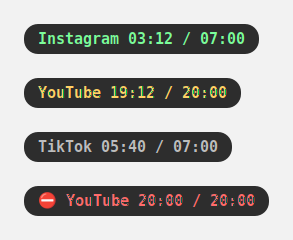
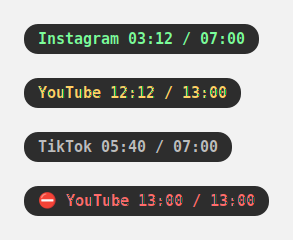
YouTube passa a 13 min de sessão e 22 min de descanso

diff --git a/tests/test_engine.py b/tests/test_engine.py
@@ -25,7 +25,7 @@ def run(sites, rules, start, seconds, focused, human=True):
 
 class DefaultRulesTest(unittest.TestCase):
     def test_default_rules(self):
-        want = {"youtube.com": (20, 240), "instagram.com": (7, 15), "tiktok.com": (7, 15), "pinterest.com": (7, 15)}
+        want = {"youtube.com": (13, 22), "instagram.com": (7, 15), "tiktok.com": (7, 15), "pinterest.com": (7, 15)}
         self.assertEqual({k: (r["session_minutes"], r["rest_minutes"]) for k, r in RULES.items()}, want)
         self.assertEqual(set(RULES["youtube.com"]["domains"]), {"youtube.com", "youtu.be", "m.youtube.com"})
         self.assertEqual(set(RULES["pinterest.com"]["domains"]), {"pinterest.com", "br.pinterest.com", "pin.it"})
@@ -116,26 +116,101 @@ class CountTest(unittest.TestCase):
         self.assertEqual(sites["youtube.com"]["used"], 10)
         self.assertEqual(sites["instagram.com"]["used"], 0)
 
-    def test_youtube_20_min_then_exactly_4_hours(self):
+    def test_instagram_tiktok_pinterest_titles(self):
+        cases = {
+            "Instagram - Google Chrome": "instagram.com",
+            "(2) Instagram — Mozilla Firefox": "instagram.com",
+            "Login • Instagram - Google Chrome": "instagram.com",
+            "Fulano (@fulano) • Instagram photos and videos - Google Chrome": "instagram.com",
+            "Fulano (@fulano) • Fotos e vídeos do Instagram - Google Chrome": "instagram.com",
+            'Fulano on Instagram: "praia" - Google Chrome': "instagram.com",
+            "TikTok - Make Your Day - Google Chrome": "tiktok.com",
+            "#receitas | TikTok - Google Chrome": "tiktok.com",
+            "Pinterest - Google Chrome": "pinterest.com",
+            "Pin em Cozinha | Pinterest — Mozilla Firefox": "pinterest.com",
+        }
+        for t, want in cases.items():
+            self.assertEqual(self.site(t), want, t)
+
+    def test_name_in_the_middle_of_another_title_does_not_count(self):
+        for t in ("luiz-nast/maverick: Instagram e Pinterest - GitHub - Google Chrome",
+                  "instagram - Pesquisa Google - Google Chrome", "tiktok - Google Search — Mozilla Firefox",
+                  "Blog X - Dicas de Instagram - Google Chrome", "Como sair do YouTube | Blog - Google Chrome",
+                  "Nova guia - Google Chrome", "Mozilla Firefox", ""):
+            self.assertIsNone(self.site(t), t)
+
+    def test_domains_and_subdomains(self):
+        """O navegador mostra a URL como título enquanto a aba carrega."""
+        cases = {"m.youtube.com/watch?v=abc": "youtube.com", "youtu.be/abc": "youtube.com",
+                 "https://www.youtube.com/shorts/x": "youtube.com", "music.youtube.com": "youtube.com",
+                 "www.instagram.com/p/xyz/": "instagram.com", "br.pinterest.com/pin/1/": "pinterest.com",
+                 "pin.it/abc": "pinterest.com", "www.tiktok.com/@fulano": "tiktok.com",
+                 "notyoutube.com/watch": None, "youtube.com.evil.net/x": None, "github.com/youtube": None}
+        for t, want in cases.items():
+            self.assertEqual(self.site(f"{t} - Google Chrome"), want, t)
+        for host, want in (("m.youtube.com", "youtube.com"), ("youtu.be", "youtube.com"), ("br.pinterest.com", "pinterest.com"),
+                           ("www.instagram.com", "instagram.com"), ("example.com", None)):
+            self.assertEqual(engine.site_for_host(host, RULES), want, host)
+
+    def test_same_result_in_chrome_and_firefox(self):
+        for tab in ("Vídeo - YouTube", "Instagram", "#fyp | TikTok", "Pin em Cozinha | Pinterest", "Notícias - G1"):
+            chrome = engine.site_for_window("google-chrome", f"{tab} - Google Chrome", RULES)
+            firefox = engine.site_for_window("firefox_firefox", f"{tab} — Mozilla Firefox", RULES)
+            self.assertEqual(chrome, firefox, tab)
+
+    def test_private_and_incognito_windows(self):
+        for t in ("Vídeo - YouTube — Navegação privativa do Mozilla Firefox", "Vídeo - YouTube — Mozilla Firefox Private Browsing",
+                  "Vídeo - YouTube — Mozilla Firefox — navegação privativa", "Stories • Instagram — Mozilla Firefox — navegação privativa",
+                  "Vídeo - YouTube - Google Chrome (Anônima)", "Review of Google Chrome - YouTube - Google Chrome",
+                  "Vídeo - YouTube - Reprodução de áudio - Google Chrome"):
+            self.assertIn(self.site(t, "firefox"), ("youtube.com", "instagram.com"), t)
+
+    def test_other_browsers_and_chrome_profile_suffix(self):
+        self.assertEqual(self.site("Vídeo - YouTube - Chromium", "chromium"), "youtube.com")
+        self.assertEqual(self.site("Vídeo - YouTube - Google Chrome - Trabalho"), "youtube.com")
+        self.assertEqual(self.site("Instagram - Brave", "brave-browser"), "instagram.com")
+        self.assertEqual(self.site("Pinterest - Microsoft Edge", "microsoft-edge"), "pinterest.com")
+        self.assertEqual(self.site("Google Chrome tips - YouTube - Google Chrome"), "youtube.com")
+
+    def test_only_browsers(self):
+        self.assertIsNone(engine.site_for_window("org.gnome.TextEditor", "YouTube", RULES))
+        self.assertIsNone(engine.site_for_window("Claude", "Vídeo - YouTube", RULES))
+        self.assertEqual(engine.site_for_window("crx_agimnkijcaahngcdmfeangaknmldooml", "YouTube", RULES), "youtube.com")
+        self.assertEqual(engine.site_for_window("", "Vídeo - YouTube - Google Chrome", RULES), "youtube.com")
+        self.assertTrue(engine.is_browser("Brave-browser", "x"))
+        self.assertFalse(engine.is_browser("ledger-live", "Ledger"))
+        self.assertFalse(engine.is_browser("zenity", "YouTube"))
+
+
+class CountTest(unittest.TestCase):
+    def test_counts_only_focused_listed_site_and_human(self):
         sites, t0 = {}, at("2026-11-21 10:00:00")
-        last = run(sites, RULES, t0, 20 * MIN, "youtube.com")
+        run(sites, RULES, t0, 10, "youtube.com")
+        run(sites, RULES, t0 + 10, 10, None)  # outro app em foco
+        run(sites, RULES, t0 + 20, 10, "youtube.com", human=False)  # agente sozinho
+        self.assertEqual(sites["youtube.com"]["used"], 10)
+        self.assertEqual(sites["instagram.com"]["used"], 0)
+
+    def test_youtube_13_min_then_exactly_22_min(self):
+        sites, t0 = {}, at("2026-11-21 10:00:00")
+        last = run(sites, RULES, t0, 13 * MIN, "youtube.com")
         st = engine.status(RULES, sites, "youtube.com", last)
         self.assertTrue(st.resting)
-        self.assertEqual(st.rest_until, last + 4 * HOUR)
-        self.assertEqual(engine.status(RULES, sites, "youtube.com", last - 1 + 0.0).used, 20 * MIN)
+        self.assertEqual(st.rest_until, last + 22 * MIN)
+        self.assertEqual(engine.status(RULES, sites, "youtube.com", last - 1 + 0.0).used, 13 * MIN)
         # no descanso nada conta, mesmo com o site em foco e você olhando
-        engine.tick(sites, RULES, last + 4 * HOUR - 1, "youtube.com", True)
-        self.assertTrue(engine.status(RULES, sites, "youtube.com", last + 4 * HOUR - 1).resting)
-        self.assertEqual(sites["youtube.com"]["used"], 20 * MIN)
-        # libera exatamente 4 h depois, com sessão nova
-        engine.tick(sites, RULES, last + 4 * HOUR, None, False)
-        st = engine.status(RULES, sites, "youtube.com", last + 4 * HOUR)
+        engine.tick(sites, RULES, last + 22 * MIN - 1, "youtube.com", True)
+        self.assertTrue(engine.status(RULES, sites, "youtube.com", last + 22 * MIN - 1).resting)
+        self.assertEqual(sites["youtube.com"]["used"], 13 * MIN)
+        # libera exatamente 22 min depois, com sessão nova
+        engine.tick(sites, RULES, last + 22 * MIN, None, False)
+        st = engine.status(RULES, sites, "youtube.com", last + 22 * MIN)
         self.assertFalse(st.resting)
         self.assertEqual(st.used, 0)
 
     def test_one_second_before_the_limit_is_still_active(self):
         sites, t0 = {}, at("2026-11-21 10:00:00")
-        last = run(sites, RULES, t0, 20 * MIN - 1, "youtube.com")
+        last = run(sites, RULES, t0, 13 * MIN - 1, "youtube.com")
         st = engine.status(RULES, sites, "youtube.com", last)
         self.assertFalse(st.resting)
         self.assertEqual(st.left, 1)
@@ -182,7 +257,7 @@ class RuleChangeTest(unittest.TestCase):
         self.assertEqual(engine.pending(cfg, "2026-11-21"), {"youtube.com": "alterada"})
         before = engine.rules_today(cfg, engine.day_of(at("2026-11-21 23:59:59")))
         after = engine.rules_today(cfg, engine.day_of(at("2026-11-22 00:00:00")))
-        self.assertEqual(before["youtube.com"]["session_minutes"], 20)
+        self.assertEqual(before["youtube.com"]["session_minutes"], 13)
         self.assertEqual(after["youtube.com"]["session_minutes"], 60)
         self.assertEqual(engine.pending(cfg, "2026-11-22"), {})
 
@@ -234,7 +309,7 @@ class RuleChangeTest(unittest.TestCase):
         wanted = engine.rules_wanted(cfg)
         wanted["youtube.com"] = {**wanted["youtube.com"], "session_minutes": 90}
         cfg = engine.change_rules(cfg, wanted, "2026-11-21")
-        wanted["youtube.com"] = {**wanted["youtube.com"], "session_minutes": 20}
+        wanted["youtube.com"] = {**wanted["youtube.com"], "session_minutes": 13}
         cfg = engine.change_rules(cfg, wanted, "2026-11-21")
         self.assertIsNone(cfg["next"])
 
@@ -261,7 +336,7 @@ class RuleChangeTest(unittest.TestCase):
         cfg = engine.change_rules(cfg, wanted, "2026-11-21")
         midnight = at("2026-11-22 00:00:00")
         engine.tick(sites, engine.rules_today(cfg, engine.day_of(midnight)), midnight, None, False)
-        self.assertEqual(sites["youtube.com"]["rest_until"], midnight + 4 * HOUR)
+        self.assertEqual(sites["youtube.com"]["rest_until"], midnight + 22 * MIN)
 
     def test_removed_site_keeps_its_rest_if_it_comes_back(self):
         sites, t0 = {}, at("2026-11-21 23:50:00")

diff --git a/tests/gui_check.py b/tests/gui_check.py
@@ -56,11 +56,11 @@ class App(gui.App):
         today = engine.day_of(time.time())
         check(list(win.rows) == ["youtube.com", "instagram.com", "tiktok.com", "pinterest.com"], "quatro sites padrão")
         yt, ig = win.rows["youtube.com"], win.rows["instagram.com"]
-        check(yt.time.get_text() == "12:14 / 20:00", f"YouTube usado/sessão ({yt.time.get_text()})")
-        check(yt.get_subtitle() == "Ativo, restam 07:46", f"YouTube ativo ({yt.get_subtitle()})")
+        check(yt.time.get_text() == "12:14 / 13:00", f"YouTube usado/sessão ({yt.time.get_text()})")
+        check(yt.get_subtitle() == "Ativo, restam 00:46", f"YouTube ativo ({yt.get_subtitle()})")
         check(ig.get_subtitle().startswith("Descanso até"), f"Instagram em descanso ({ig.get_subtitle()})")
         check(ig.time.get_text().startswith("libera em 10:"), f"Instagram tempo restante ({ig.time.get_text()})")
-        check(win.pill.get_text() == "YouTube 12:14 / 20:00", "pílula com o site em foco")
+        check(win.pill.get_text() == "YouTube 12:14 / 13:00", "pílula com o site em foco")
         check(win.pill.has_css_class("pill") and win.pill.has_css_class("idle"), "pílula cinza com ninguém mexendo")
         check(win.camera.get_text() == "ninguém mexendo", "presença discreta: ninguém mexendo")
         check(not win.banner_focus.get_revealed(), "sem aviso de extensão (Maverick respondeu)")
@@ -73,10 +73,10 @@ class App(gui.App):
             pump(0.3)
         pump(1.2)
         cfg = store.load_config()
-        check(engine.rules_wanted(cfg)["youtube.com"]["session_minutes"] == 25,
-              f"5 cliques no + gravam 25 ({engine.rules_wanted(cfg)['youtube.com']['session_minutes']})")
+        check(engine.rules_wanted(cfg)["youtube.com"]["session_minutes"] == 18,
+              f"5 cliques no + gravam 18 ({engine.rules_wanted(cfg)['youtube.com']['session_minutes']})")
         # dois sites editados em seguida: os dois ficam
-        win.edit("youtube.com", 30, 240)
+        win.edit("youtube.com", 30, 22)
         win.edit("instagram.com", 7, 30)
         pump(1.2)
         wanted = engine.rules_wanted(store.load_config())
@@ -94,7 +94,7 @@ class App(gui.App):
         yt.session.set_value(45)
         pump(1.2)
         cfg = store.load_config()
-        check(engine.rules_today(cfg, today)["youtube.com"]["session_minutes"] == 20, "hoje continua 20 min")
+        check(engine.rules_today(cfg, today)["youtube.com"]["session_minutes"] == 13, "hoje continua 13 min")
         check(engine.rules_today(cfg, engine.next_day(today))["youtube.com"]["session_minutes"] == 45, "amanhã 45 min")
         pump(1.2)
         check(win.banner_pending.get_revealed(), "aviso: vale a partir de amanhã")

diff --git a/tools/prints.py b/tools/prints.py
@@ -84,8 +84,8 @@ def overlay() -> None:
 
     ov._css()
     OUT.mkdir(parents=True, exist_ok=True)
-    states = [("Instagram 03:12 / 07:00", "playing"), ("YouTube 19:12 / 20:00", "warning"),
-              ("TikTok 05:40 / 07:00", "idle"), ("⛔ YouTube 20:00 / 20:00", "blocked")]
+    states = [("Instagram 03:12 / 07:00", "playing"), ("YouTube 12:12 / 13:00", "warning"),
+              ("TikTok 05:40 / 07:00", "idle"), ("⛔ YouTube 13:00 / 13:00", "blocked")]
     # Pílula do Challenger nos quatro estados, empilhadas.
     pills = [snap(ov.pill_label(t, s)) for t, s in states]
     save_column(pills, OUT / "pilula-estados.png", GdkPixbuf, bg=0xF2F2F2FF)
@@ -120,7 +120,7 @@ def overlay() -> None:
     content.update("Instagram em descanso", "10:12", "Libera às 21:47.", "⛔ Instagram 07:00 / 07:00")
     snap(content, 1366, 768, "cover").savev(str(OUT / "overlay-descanso.png"), "png", [], [])
     content = ov.CoverContent()
-    content.update("YouTube em descanso", "3:59:12", "Libera às 01:41.", "⛔ YouTube 20:00 / 20:00")
+    content.update("YouTube em descanso", "21:12", "Libera às 01:41.", "⛔ YouTube 13:00 / 13:00")
     snap(content, 1366, 768, "cover").savev(str(OUT / "overlay-descanso-youtube.png"), "png", [], [])
     if any(diffs):
         sys.exit("a pílula difere da do Maverick")

diff --git a/tests/test_daemon.py b/tests/test_daemon.py
@@ -238,18 +238,18 @@ class RestAndOverlayTest(unittest.TestCase):
     def test_rest_survives_restart(self):
         h = Harness()
         h.window(CHROME, "Vídeo - YouTube - Google Chrome")
-        h.run(20 * MIN)
+        h.run(13 * MIN)
         until = h.d.state["sites"]["youtube.com"]["rest_until"]
         self.assertGreater(until, 0)
-        # reinício do app 1 h depois: o descanso continua, com o mesmo fim
+        # reinício do app 10 min depois: o descanso continua, com o mesmo fim
         clock = FakeClock()
-        clock.now = h.clock.now + HOUR
+        clock.now = h.clock.now + 10 * MIN
         h2 = Harness(clock=clock)
         h2.window(CHROME, "Vídeo - YouTube - Google Chrome")
         h2.run(1)
         self.assertEqual(h2.d.state["sites"]["youtube.com"]["rest_until"], until)
         self.assertTrue(h2.d.cover.visible)
-        self.assertEqual(h2.used("youtube.com"), 20 * MIN)
+        self.assertEqual(h2.used("youtube.com"), 13 * MIN)
         # e libera na hora certa, depois do reinício
         h2.clock.now = until
         h2.run(1)

diff --git a/tests/test_safety.py b/tests/test_safety.py
@@ -54,7 +54,7 @@ class SafetyTest(unittest.TestCase):
     def test_readme_has_what_the_prompt_asks(self):
         readme = (ROOT / "README.md").read_text()
         for needle in ("## Por que existe", "## Como conta o tempo", "Teclado ou mouse", "Vídeo tocando",
-                       "Ninguém mexe", "## Regras", "20 min", "4 h", "7 min", "15 min",
+                       "Ninguém mexe", "## Regras", "13 min", "22 min", "7 min", "15 min",
                        "## Privacidade", "## Instalar e rodar", "inicia sozinho com a", "./install.sh --remove"):
             self.assertIn(needle, readme)
 

diff --git a/docs/testes.md b/docs/testes.md
@@ -9,7 +9,7 @@ Mesmo resultado com o Python do serviço (`~/.local/share/challenger/venv/bin/py
 
 | Arquivo | O que prova |
 |---|---|
-| `test_engine.py` | regras padrão; título → site em Chrome, Firefox (inclusive anônima/privativa), Chromium, Brave, Edge, apps do Chrome; subdomínios e endereços (`m.youtube.com`, `youtu.be`, `br.pinterest.com`, `pin.it`); falsos positivos (busca, GitHub, blog); YouTube 20 min → descanso → libera em 4 h exatas; Instagram, TikTok, Pinterest 7 → 15 min; regra nova antes e depois da meia-noite; adicionar vale na hora; remover e editar valem amanhã; desfazer |
+| `test_engine.py` | regras padrão; título → site em Chrome, Firefox (inclusive anônima/privativa), Chromium, Brave, Edge, apps do Chrome; subdomínios e endereços (`m.youtube.com`, `youtu.be`, `br.pinterest.com`, `pin.it`); falsos positivos (busca, GitHub, blog); YouTube 13 min → descanso → libera em 22 min exatos; Instagram, TikTok, Pinterest 7 → 15 min; regra nova antes e depois da meia-noite; adicionar vale na hora; remover e editar valem amanhã; desfazer |
 | `test_camera.py` | tabela da câmera (rosto, sala vazia, tapada, escura, uniforme, sem imagem, erro, sem OpenCV, câmera que cai no meio, erro do detector); suavização contra oscilação; câmera fecha sozinha; nenhum quadro guardado |
 | `test_daemon.py` | o caminho de um segundo com foco, câmera e relógio falsos; Chrome e Firefox contam igual; outro app não conta; câmera só liga com site liberado em foco; pílula; tela de descanso aparece e some ao trocar de aba ou de app; descanso sobrevive a reinício; mudança pelo arquivo só vale à meia-noite; arquivos estragados; vigia de travamento |
 | `test_overlay.py` | janelas GTK reais: tela de descanso em cada monitor, sem foco, não fecha com clique, Esc ou pedido de fechar; pílula com CSS e janela iguais às do Maverick |

diff --git a/README.md b/README.md
@@ -49,7 +49,7 @@ zerado.
 
 | Site | Domínios | Sessão ativa | Descanso |
 |---|---|---|---|
-| YouTube | `youtube.com`, `youtu.be`, `m.youtube.com` | 20 min | 4 h |
+| YouTube | `youtube.com`, `youtu.be`, `m.youtube.com` | 13 min | 22 min |
 | Instagram | `instagram.com` | 7 min | 15 min |
 | TikTok | `tiktok.com` | 7 min | 15 min |
 | Pinterest | `pinterest.com`, `br.pinterest.com`, `pin.it` | 7 min | 15 min |
